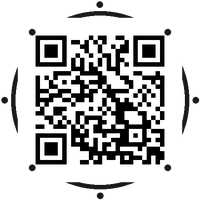
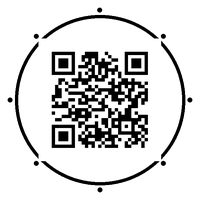
feat: implement decorative QR code frames and add accompanying preview assets

diff --git a/frontend/src/data/options.ts b/frontend/src/data/options.ts
@@ -33,5 +33,5 @@ export const EYEBALL_STYLES = [
   "left_rounded", "right_rounded", "droplet_tl", "droplet_tr", "droplet_bl", "droplet_br", 
   "sheared", "flower_cut", "clover", "heart", "pinched_square"
 ];
-export const FRAME_STYLES = ['none', 'border', 'brackets', 'chalkboard', 'circle', 'circle_sprinkles', 'circle_sunburst', 'dotted_border', 'double_border', 'hexagon', 'phone_frame', 'polaroid_frame', 'scalloped_edge', 'art_deco', 'film_strip', 'ticket_cutout', 'drop_shadow_card', 'coupon_dashed', 'hanging_sign', 'monitor_screen', 'storefront_awning', 'modern_polaroid', 'cellular_automata_frame', 'sdf_metaball_frame'];
+export const FRAME_STYLES = ['none', 'border', 'brackets', 'chalkboard', 'circle', 'circle_sprinkles', 'circle_sunburst', 'dotted_border', 'double_border', 'hexagon', 'phone_frame', 'polaroid_frame', 'scalloped_edge', 'art_deco', 'film_strip', 'ticket_cutout', 'drop_shadow_card', 'coupon_dashed', 'hanging_sign', 'monitor_screen', 'storefront_awning', 'modern_polaroid', 'cellular_automata_frame', 'sdf_metaball_frame', 'modern_arch', 'chamfered_monolith', 'aperture_orbit', 'single_droplet_plaque', 'floating_gallery_canvas', 'guilloche_security', 'topographic_map', 'isometric_pedestal', 'moire_interference', 'l_system_fractal'];
 export const TEXT_STYLES = ['none', 'app_store_badge', 'award_badge', 'bottom_tab', 'bottom_text', 'browser_window', 'chat_bubble', 'chef_hat', 'coffee_cup', 'coffee_mug', 'diploma_scroll', 'drink_cup', 'floating_badge', 'food_dome', 'game_console', 'laptop_mockup', 'magic_mirror', 'map_pin', 'open_book', 'padlock', 'pizza_slice', 'polaroid_photo', 'price_tag', 'retro_tv_set', 'ribbon_banner', 'rsvp_envelope', 'security_shield', 'shipping_label', 'shopping_bag', 'speech_bubble', 'speech_bubble_top', 'thought_cloud', 'ticket_stub', 'ufo_abduction', 'vertical_card_badge', 'vertical_ribbon_left', 'vertical_ribbon_right', 'vertical_side_badge_left', 'vertical_side_badge_right', 'vintage_stamp', 'vinyl_record', 'menu_board', 'wine_glass', 'burger_shape', 'plate_fork_knife', 'coffee_bean', 'sushi_roll', 'beer_mug', 'ice_cream_cone', 'tea_pot', 'hot_soup_bowl', 'floating_pill'];

diff --git a/backend/engines/frames/text_frames.py b/backend/engines/frames/text_frames.py
@@ -60,8 +60,9 @@ def apply_layout_frame(qr_img, layout_template="none", frame_color="#000000", pa
         return new_img
         
     elif layout_template == "circle":
-        new_w = qr_w + padding * 4
-        new_h = qr_h + padding * 4
+        diag = int(math.hypot(qr_w, qr_h))
+        new_w = diag + padding * 2
+        new_h = diag + padding * 2
         new_img = Image.new("RGBA", (new_w, new_h), color=(255, 255, 255, 0))
         draw = ImageDraw.Draw(new_img)
         
@@ -74,30 +75,33 @@ def apply_layout_frame(qr_img, layout_template="none", frame_color="#000000", pa
                           (new_w - padding - border_thickness//2, new_h - padding - border_thickness//2)], 
                          outline=bg_color, width=border_thickness)
                          
-        new_img.paste(qr_img, (padding * 2, padding * 2), qr_img)
+        offset = (new_w - qr_w) // 2
+        new_img.paste(qr_img, (offset, offset), qr_img)
         return new_img
         
     elif layout_template == "circle_sunburst":
-        new_w = qr_w + padding * 4
-        new_h = qr_h + padding * 4
+        diag = int(math.hypot(qr_w, qr_h))
+        new_w = diag + padding * 4
+        new_h = diag + padding * 4
         new_img = Image.new("RGBA", (new_w, new_h), color=(255, 255, 255, 0))
         draw = ImageDraw.Draw(new_img)
         
         # White circle background
-        draw.ellipse([(padding, padding), (new_w - padding, new_h - padding)], fill=(255, 255, 255, 255))
+        draw.ellipse([(padding*2, padding*2), (new_w - padding*2, new_h - padding*2)], fill=(255, 255, 255, 255))
         
         # Circle border
         if border_thickness > 0:
-            draw.ellipse([(padding + border_thickness//2, padding + border_thickness//2), 
-                          (new_w - padding - border_thickness//2, new_h - padding - border_thickness//2)], 
+            draw.ellipse([(padding*2 + border_thickness//2, padding*2 + border_thickness//2), 
+                          (new_w - padding*2 - border_thickness//2, new_h - padding*2 - border_thickness//2)], 
                          outline=bg_color, width=border_thickness)
                          
-        new_img.paste(qr_img, (padding * 2, padding * 2), qr_img)
+        offset = (new_w - qr_w) // 2
+        new_img.paste(qr_img, (offset, offset), qr_img)
         
         # Sunburst rays
         cx = new_w // 2
         cy = new_h // 2
-        r_orbit = (new_w - padding * 2) // 2
+        r_orbit = (new_w - padding * 4) // 2
         num_rays = 36
         for i in range(num_rays):
             angle = i * (2 * math.pi / num_rays)
@@ -111,26 +115,28 @@ def apply_layout_frame(qr_img, layout_template="none", frame_color="#000000", pa
         return new_img
         
     elif layout_template == "circle_sprinkles":
-        new_w = qr_w + padding * 4
-        new_h = qr_h + padding * 4
+        diag = int(math.hypot(qr_w, qr_h))
+        new_w = diag + padding * 4
+        new_h = diag + padding * 4
         new_img = Image.new("RGBA", (new_w, new_h), color=(255, 255, 255, 0))
         draw = ImageDraw.Draw(new_img)
         
         # White circle background
-        draw.ellipse([(padding, padding), (new_w - padding, new_h - padding)], fill=(255, 255, 255, 255))
+        draw.ellipse([(padding*2, padding*2), (new_w - padding*2, new_h - padding*2)], fill=(255, 255, 255, 255))
         
         # Circle border
         if border_thickness > 0:
-            draw.ellipse([(padding + border_thickness//2, padding + border_thickness//2), 
-                          (new_w - padding - border_thickness//2, new_h - padding - border_thickness//2)], 
+            draw.ellipse([(padding*2 + border_thickness//2, padding*2 + border_thickness//2), 
+                          (new_w - padding*2 - border_thickness//2, new_h - padding*2 - border_thickness//2)], 
                          outline=bg_color, width=border_thickness)
                          
-        new_img.paste(qr_img, (padding * 2, padding * 2), qr_img)
+        offset = (new_w - qr_w) // 2
+        new_img.paste(qr_img, (offset, offset), qr_img)
         
         # Sprinkles
         cx = new_w // 2
         cy = new_h // 2
-        r_orbit = (new_w - padding * 2) // 2 + border_thickness
+        r_orbit = (new_w - padding * 4) // 2 + border_thickness
         sprinkle_r = max(4, border_thickness * 3 // 4)
         for i in range(8):
             angle = i * (2 * math.pi / 8)
@@ -141,6 +147,7 @@ def apply_layout_frame(qr_img, layout_template="none", frame_color="#000000", pa
         return new_img
         
     elif layout_template == "dotted_border":
+        padding = max(padding, border_thickness + 15)
         new_w = qr_w + padding * 2
         new_h = qr_h + padding * 2
         new_img = Image.new("RGBA", (new_w, new_h), color=(255, 255, 255, 0))
@@ -858,6 +865,276 @@ def apply_layout_frame(qr_img, layout_template="none", frame_color="#000000", pa
         
         draw = ImageDraw.Draw(new_img)
         draw.rectangle([p, p, new_w - p, new_h - p], fill=(255, 255, 255, 255))
+        
+        new_img.paste(qr_img, (p, p), qr_img)
+        return new_img
+
+    elif layout_template == "modern_arch":
+        p = padding * 2
+        new_w = qr_w + p * 2
+        arch_radius = new_w // 2
+        new_h = qr_h + p * 2 + arch_radius - p
+        
+        new_img = Image.new("RGBA", (new_w, new_h), color=(255, 255, 255, 0))
+        draw = ImageDraw.Draw(new_img)
+        
+        draw.pieslice([0, 0, new_w, new_w], start=180, end=360, fill=(255, 255, 255, 255))
+        draw.rectangle([0, arch_radius, new_w, new_h], fill=(255, 255, 255, 255))
+        
+        if border_thickness > 0:
+            bw = max(1, border_thickness//2)
+            draw.arc([bw, bw, new_w - bw, new_w - bw], start=180, end=360, fill=bg_color, width=bw)
+            draw.line([bw, arch_radius, bw, new_h - bw], fill=bg_color, width=bw)
+            draw.line([new_w - bw, arch_radius, new_w - bw, new_h - bw], fill=bg_color, width=bw)
+            draw.line([bw, new_h - bw, new_w - bw, new_h - bw], fill=bg_color, width=bw)
+            
+        new_img.paste(qr_img, (p, arch_radius + p - padding), qr_img)
+        return new_img
+
+    elif layout_template == "chamfered_monolith":
+        p = padding * 2
+        new_w = qr_w + p * 2
+        new_h = qr_h + p * 2
+        new_img = Image.new("RGBA", (new_w, new_h), color=(255, 255, 255, 0))
+        draw = ImageDraw.Draw(new_img)
+        
+        chamfer = p
+        pts = [
+            (chamfer, 0), (new_w, 0),
+            (new_w, new_h - chamfer), (new_w - chamfer, new_h),
+            (0, new_h), (0, chamfer)
+        ]
+        
+        draw.polygon(pts, fill=(255, 255, 255, 255))
+        if border_thickness > 0:
+            bw = max(1, border_thickness // 2)
+            pts_inner = [
+                (chamfer, bw), (new_w - bw, bw),
+                (new_w - bw, new_h - chamfer), (new_w - chamfer, new_h - bw),
+                (bw, new_h - bw), (bw, chamfer)
+            ]
+            draw.line(pts_inner + [pts_inner[0]], fill=bg_color, width=bw, joint="curve")
+            
+        new_img.paste(qr_img, (p, p), qr_img)
+        return new_img
+
+    elif layout_template == "aperture_orbit":
+        p = padding * 3
+        size = max(qr_w, qr_h) + p * 2
+        new_img = Image.new("RGBA", (size, size), color=(255, 255, 255, 0))
+        draw = ImageDraw.Draw(new_img)
+        
+        draw.ellipse([p//2, p//2, size - p//2, size - p//2], fill=(255, 255, 255, 255))
+        
+        bw = max(2, border_thickness)
+        gap = 15 
+        for start_angle in [0, 90, 180, 270]:
+            draw.arc([p//2, p//2, size - p//2, size - p//2], start=start_angle + gap, end=start_angle + 90, fill=bg_color, width=bw)
+            
+            cx, cy = size / 2, size / 2
+            r = (size - p) / 2
+            
+            rad_start = math.radians(start_angle + gap)
+            rad_end = math.radians(start_angle + 90)
+            
+            sx, sy = cx + r * math.cos(rad_start), cy + r * math.sin(rad_start)
+            ex, ey = cx + r * math.cos(rad_end), cy + r * math.sin(rad_end)
+            
+            draw.ellipse([sx - bw/2, sy - bw/2, sx + bw/2, sy + bw/2], fill=bg_color)
+            draw.ellipse([ex - bw/2, ey - bw/2, ex + bw/2, ey + bw/2], fill=bg_color)
+            
+        offset_x = (size - qr_w) // 2
+        offset_y = (size - qr_h) // 2
+        new_img.paste(qr_img, (offset_x, offset_y), qr_img)
+        return new_img
+
+    elif layout_template == "single_droplet_plaque":
+        p = padding * 2
+        new_w = qr_w + p * 2
+        new_h = qr_h + p * 2
+        
+        new_img = Image.new("RGBA", (new_w, new_h), color=(255, 255, 255, 0))
+        draw = ImageDraw.Draw(new_img)
+        
+        r = p
+        draw.rectangle([r, 0, new_w, new_h - r], fill=(255, 255, 255, 255))
+        draw.rectangle([0, r, new_w - r, new_h], fill=(255, 255, 255, 255))
+        draw.pieslice([0, 0, r*2, r*2], 180, 270, fill=(255, 255, 255, 255))
+        draw.pieslice([0, new_h - r*2, r*2, new_h], 90, 180, fill=(255, 255, 255, 255))
+        draw.pieslice([new_w - r*2, new_h - r*2, new_w, new_h], 0, 90, fill=(255, 255, 255, 255))
+        
+        if border_thickness > 0:
+            bw = max(1, border_thickness // 2)
+            
+            draw.line([new_w - bw, r, new_w - bw, 0], fill=bg_color, width=bw)
+            draw.line([new_w - r, 0, new_w, 0], fill=bg_color, width=bw)
+            
+            draw.line([r, bw, new_w - r, bw], fill=bg_color, width=bw) 
+            draw.line([new_w - bw, r, new_w - bw, new_h - r], fill=bg_color, width=bw) 
+            draw.line([r, new_h - bw, new_w - r, new_h - bw], fill=bg_color, width=bw) 
+            draw.line([bw, r, bw, new_h - r], fill=bg_color, width=bw) 
+            
+            draw.arc([bw, bw, r*2, r*2], 180, 270, fill=bg_color, width=bw)
+            draw.arc([bw, new_h - r*2 - bw, r*2, new_h - bw], 90, 180, fill=bg_color, width=bw)
+            draw.arc([new_w - r*2 - bw, new_h - r*2 - bw, new_w - bw, new_h - bw], 0, 90, fill=bg_color, width=bw)
+            
+        new_img.paste(qr_img, (p, p), qr_img)
+        return new_img
+
+    elif layout_template == "floating_gallery_canvas":
+        p = padding * 3
+        new_w = qr_w + p * 2
+        new_h = qr_h + p * 2
+        
+        canvas_w = new_w + padding * 2
+        canvas_h = new_h + padding * 2
+        
+        new_img = Image.new("RGBA", (canvas_w, canvas_h), color=(255, 255, 255, 0))
+        draw = ImageDraw.Draw(new_img)
+        
+        shadow_layers = 8
+        shadow_offset_y = padding // 2
+        for i in range(shadow_layers):
+            spread = i * 4
+            alpha = int(45 / (i + 1.5))
+            draw.rounded_rectangle([
+                padding - spread, 
+                padding + shadow_offset_y - spread + (i*2), 
+                padding + new_w + spread, 
+                padding + new_h + shadow_offset_y + spread + (i*2)
+            ], radius=padding, fill=(0, 0, 0, alpha))
+            
+        draw.rounded_rectangle([padding, padding, padding + new_w, padding + new_h], radius=max(2, padding // 2), fill=(255, 255, 255, 255))
+        
+        new_img.paste(qr_img, (padding + p, padding + p), qr_img)
+        return new_img
+
+    elif layout_template == "guilloche_security":
+        p = padding * 3
+        new_w = qr_w + p * 2
+        new_h = qr_h + p * 2
+        new_img = Image.new("RGBA", (new_w, new_h), color=(255, 255, 255, 0))
+        draw = ImageDraw.Draw(new_img)
+        
+        draw.rectangle([padding, padding, new_w - padding, new_h - padding], fill=(255, 255, 255, 255))
+        
+        cx, cy = new_w / 2, new_h / 2
+        R_base = (max(qr_w, qr_h) // 2) + padding
+        num_waves = 12
+        amplitude = padding * 0.8
+        
+        for phase in range(0, 360, 15):
+            pts = []
+            phase_rad = math.radians(phase)
+            for angle in range(0, 361, 2):
+                rad = math.radians(angle)
+                r_vary = R_base + math.sin(rad * num_waves + phase_rad) * amplitude
+                x = cx + r_vary * math.cos(rad)
+                y = cy + r_vary * math.sin(rad)
+                pts.append((x, y))
+            draw.line(pts, fill=bg_color, width=1)
+            
+        new_img.paste(qr_img, (p, p), qr_img)
+        return new_img
+
+    elif layout_template == "topographic_map":
+        p = padding * 4
+        new_w = qr_w + p * 2
+        new_h = qr_h + p * 2
+        new_img = Image.new("RGBA", (new_w, new_h), color=(255, 255, 255, 255))
+        draw = ImageDraw.Draw(new_img)
+        
+        cx, cy = new_w / 2, new_h / 2
+        
+        for radius_step in range(0, p * 2, max(4, padding // 3)):
+            pts = []
+            R_base = (qr_w // 2) + padding + radius_step
+            for angle in range(0, 361, 2):
+                rad = math.radians(angle)
+                nx = math.cos(rad) * R_base * 0.02
+                ny = math.sin(rad) * R_base * 0.02
+                noise = math.sin(nx * 2.1 + ny * 1.5) * 0.5 + math.sin(nx * 3.4 - ny * 1.1) * 0.5
+                
+                r_vary = R_base + noise * (15 + radius_step * 0.1)
+                x = cx + r_vary * math.cos(rad)
+                y = cy + r_vary * math.sin(rad)
+                pts.append((x, y))
+            draw.line(pts, fill=bg_color, width=max(1, border_thickness // 3))
+            
+        draw.rectangle([p - padding//2, p - padding//2, new_w - p + padding//2, new_h - p + padding//2], fill=(255, 255, 255, 255))
+        
+        new_img.paste(qr_img, (p, p), qr_img)
+        return new_img
+
+    elif layout_template == "isometric_pedestal":
+        p = padding * 3
+        new_w = qr_w + p * 2
+        depth = padding * 2
+        new_h = qr_h + p * 2 + depth
+        new_img = Image.new("RGBA", (new_w, new_h), color=(255, 255, 255, 0))
+        draw = ImageDraw.Draw(new_img)
+        
+        bx1, by1 = p - padding, p - padding
+        bx2, by2 = new_w - p + padding, new_h - depth - p + padding
+        
+        dx = padding
+        dy = padding * 1.5
+        
+        draw.polygon([
+            (bx1, by2), (bx1 + dx, by2 + dy), (bx2 + dx, by2 + dy), (bx2, by2)
+        ], fill=bg_color)
+        draw.polygon([
+            (bx2, by1), (bx2 + dx, by1 + dy), (bx2 + dx, by2 + dy), (bx2, by2)
+        ], fill=bg_color)
+        
+        draw.rectangle([bx1, by1, bx2, by2], fill=(255, 255, 255, 255), outline=bg_color, width=border_thickness)
+        
+        new_img.paste(qr_img, (p, p), qr_img)
+        return new_img
+
+    elif layout_template == "moire_interference":
+        p = padding * 4
+        new_w = qr_w + p * 2
+        new_h = qr_h + p * 2
+        new_img = Image.new("RGBA", (new_w, new_h), color=(255, 255, 255, 255))
+        draw = ImageDraw.Draw(new_img)
+        
+        cx1, cy1 = new_w / 2 - padding, new_h / 2
+        cx2, cy2 = new_w / 2 + padding, new_h / 2
+        
+        max_r = int(math.hypot(new_w, new_h) / 1.5)
+        step = max(4, padding // 2)
+        
+        for r in range(10, max_r, step):
+            draw.ellipse([cx1 - r, cy1 - r, cx1 + r, cy1 + r], outline=bg_color, width=1)
+            draw.ellipse([cx2 - r, cy2 - r, cx2 + r, cy2 + r], outline=bg_color, width=1)
+            
+        draw.rectangle([p - padding//2, p - padding//2, new_w - p + padding//2, new_h - p + padding//2], fill=(255, 255, 255, 255))
+        new_img.paste(qr_img, (p, p), qr_img)
+        return new_img
+
+    elif layout_template == "l_system_fractal":
+        p = padding * 3
+        new_w = qr_w + p * 2
+        new_h = qr_h + p * 2
+        new_img = Image.new("RGBA", (new_w, new_h), color=(255, 255, 255, 255))
+        draw = ImageDraw.Draw(new_img)
+        
+        def draw_branch(x, y, angle, depth, length):
+            if depth == 0:
+                return
+            x2 = x + length * math.cos(angle)
+            y2 = y + length * math.sin(angle)
+            draw.line([(x, y), (x2, y2)], fill=bg_color, width=max(1, depth))
+            draw_branch(x2, y2, angle - math.radians(25), depth - 1, length * 0.75)
+            draw_branch(x2, y2, angle + math.radians(15), depth - 1, length * 0.8)
+            
+        draw_branch(0, 0, math.radians(45), 6, padding * 1.5)
+        draw_branch(new_w, 0, math.radians(135), 6, padding * 1.5)
+        draw_branch(0, new_h, math.radians(-45), 6, padding * 1.5)
+        draw_branch(new_w, new_h, math.radians(-135), 6, padding * 1.5)
+        
+        draw.rectangle([p - padding//2, p - padding//2, new_w - p + padding//2, new_h - p + padding//2], fill=(255, 255, 255, 255), outline=bg_color, width=border_thickness)
         
         new_img.paste(qr_img, (p, p), qr_img)
         return new_img
